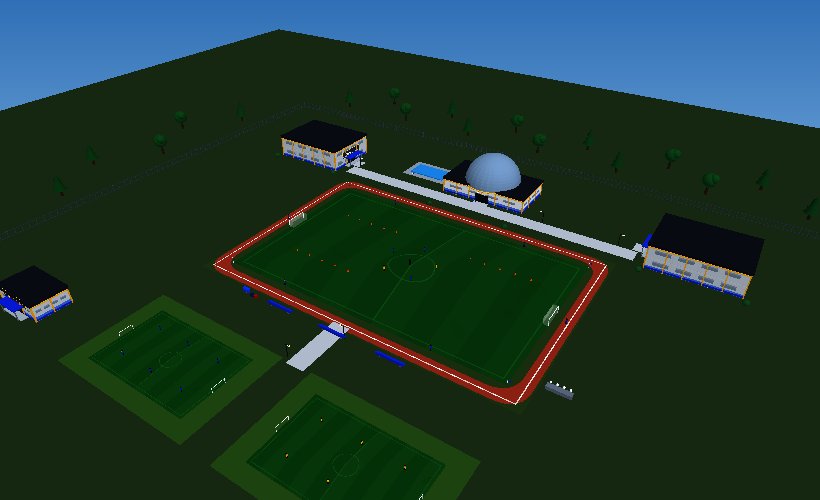
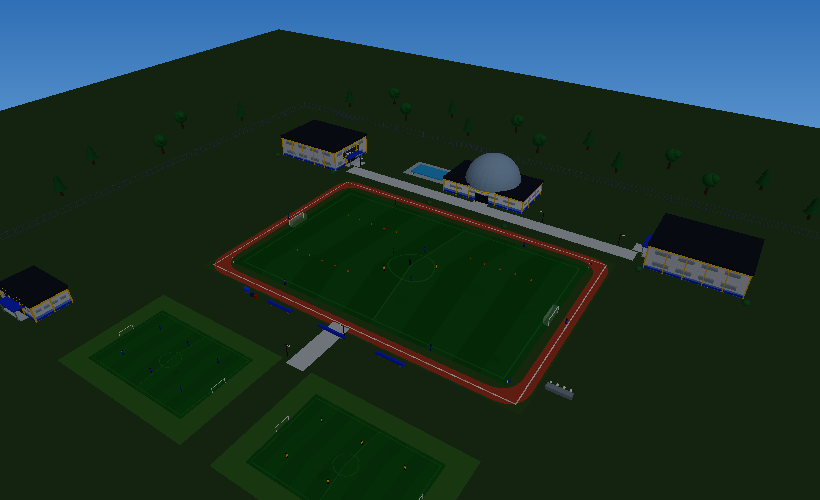
Stadyum vitrin kareleri: gece/gündüz sinematik açı + gece projektör ayarı
- Gece projektör şiddeti 56000 → 78000 (uygulama ve önizleme aynı)
- Gece maçlarda çim, projektör altında hafif kendinden aydınlık (gerçekçi)
- Önizleme motoruna yumuşak ton eğrisi: parlak yüzeyler bembeyaz patlamıyor
- docs/preview-stadyum-kahraman-gece.png, -kahraman-gunduz.png ve
  docs/preview-stadyum-vitrin.png (ikisini birden gösteren vitrin)

diff --git a/tools/render-3d-preview.tsx b/tools/render-3d-preview.tsx
@@ -315,6 +315,12 @@ function renderToBuffer(
     }
   });
 
+  // Yumuşak ton eğrisi (Reinhard benzeri) — projektör altındaki yüzeyler bembeyaz patlamaz
+  const tonemap = (v: number) => {
+    const n = v / 255;
+    return 255 * (n * (1 + n / 9)) / (1 + n);
+  };
+
   for (const t of tris) {
     let [x0, y0, x1, y1, x2, y2] = [t.x[0], t.y[0], t.x[1], t.y[1], t.x[2], t.y[2]];
     let [z0, z1, z2] = [t.z[0], t.z[1], t.z[2]];
@@ -376,7 +382,7 @@ function renderToBuffer(
           cg += t.em[1] * 0.6;
           cb += t.em[2] * 0.6;
         }
-        cr = Math.min(255, cr); cg = Math.min(255, cg); cb = Math.min(255, cb);
+        cr = tonemap(Math.min(400, cr)); cg = tonemap(Math.min(400, cg)); cb = tonemap(Math.min(400, cb));
         if (t.alpha < 1) {
           for (let c = 0; c < 3; c++) {
             const src = c === 0 ? cr : c === 1 ? cg : cb;
@@ -429,6 +435,9 @@ const stadiumPreviews: { name: string; design: StadiumDesign; capacity: number; 
   { name: 'preview-stadyum-gunduz.png', design: { ...defaultStadium().design, roof: 'canopy', flags: true }, capacity: 17000, night: false, dPhi: 0, dTheta: 0, zoom: 1 },
   { name: 'preview-stadyum-gece.png', design: { seatColor: '#dc2626', accentColor: '#facc15', roof: 'full', stands: 'double', pitchPattern: 'stripes', flags: true, logoOnPitch: false, floodlights: true }, capacity: 40000, night: true, dPhi: 0, dTheta: 0.25, zoom: 1.05, pointLights: true },
   // Tasarım seçenekleri galerisi: her kare farklı bir özelleştirme seçimini gösterir
+  // Vitrin kareleri: alçak sinematik açı (gece projektörler açık)
+  { name: 'preview-stadyum-kahraman-gece.png', design: { seatColor: '#dc2626', accentColor: '#facc15', roof: 'full', stands: 'double', pitchPattern: 'stripes', flags: true, logoOnPitch: true, floodlights: true }, capacity: 40000, night: true, dPhi: 0.04, dTheta: -0.83, zoom: 0.8, pointLights: true },
+  { name: 'preview-stadyum-kahraman-gunduz.png', design: { seatColor: '#1d4ed8', accentColor: '#f8fafc', roof: 'canopy', stands: 'stepped', pitchPattern: 'stripes', flags: true, logoOnPitch: true, floodlights: true }, capacity: 26000, night: false, dPhi: 0.04, dTheta: -0.83, zoom: 0.82 },
   { name: 'preview-stadyum-tasarim-cati-yok.png', design: { seatColor: '#2563eb', accentColor: '#f8fafc', roof: 'none', stands: 'classic', pitchPattern: 'stripes', flags: false, logoOnPitch: false, floodlights: false }, capacity: 9000, night: false, dPhi: 0.06, dTheta: -0.18, zoom: 1.02 },
   { name: 'preview-stadyum-tasarim-canopy.png', design: { seatColor: '#16a34a', accentColor: '#facc15', roof: 'canopy', stands: 'stepped', pitchPattern: 'plain', flags: true, logoOnPitch: true, floodlights: true }, capacity: 17000, night: false, dPhi: 0.06, dTheta: -0.18, zoom: 1.02 },
   { name: 'preview-stadyum-tasarim-cam-cati.png', design: { seatColor: '#7c3aed', accentColor: '#e5e7eb', roof: 'glass', stands: 'double', pitchPattern: 'rings', flags: true, logoOnPitch: true, floodlights: true }, capacity: 26000, night: false, dPhi: 0.06, dTheta: -0.18, zoom: 1.02 },
@@ -446,7 +455,8 @@ stadiumPreviews.forEach(p => {
   const depth = (p.design.stands === 'stepped' ? 1.9 : 1.55) * rows;
   const halfZ = 68 / 2 + 8 + depth + 4;
   const buffer = renderToBuffer(bundle.group, {
-    radius: baseRadius * p.zoom, phi: 0.98 + p.dPhi, theta: 0.85 + p.dTheta, targetY: Math.max(6, rows * 1.1), fov: 46,
+    radius: baseRadius * p.zoom, phi: 0.98 + p.dPhi, theta: 0.85 + p.dTheta,
+    targetY: Math.max(6, rows * 1.1) + (p.name.includes('kahraman') ? 2 : 0), fov: 46,
   }, {
     sky: p.night ? '#0b1026' : '#7ab0e0',
     night: p.night,
@@ -455,7 +465,7 @@ stadiumPreviews.forEach(p => {
       ? [
           ...(p.pointLights
             ? [[-1, -1], [1, -1], [-1, 1], [1, 1]].map(([lx, lz]) => ({
-                x: lx * spotX, y: spotY, z: lz * spotZ, intensity: 56000, distance: 300, color: 0xffe9a8,
+                x: lx * spotX, y: spotY, z: lz * spotZ, intensity: 78000, distance: 300, color: 0xffe9a8,
               }))
             : []),
           // Giriş meydanı lambaları (scene.ts ile aynı)

diff --git a/src/components/stadium/scene.ts b/src/components/stadium/scene.ts
@@ -440,8 +440,9 @@ export function buildStadiumGroup(design: StadiumDesign, opts: StadiumBuildOptio
     color: pitchTex ? 0xffffff : 0x37994a,
     roughness: opts.wet ? 0.52 : 0.95,
     metalness: opts.wet ? 0.08 : 0.0,
-    emissive: opts.wet ? new THREE.Color(0x1a3a25) : new THREE.Color(0x000000),
-    emissiveIntensity: opts.wet ? (opts.night ? 0.22 : 0.08) : 0,
+    // Gece projektör altında çim hafifçe kendi kendine aydınlanır (gerçekte de parlak görünür)
+    emissive: opts.wet ? new THREE.Color(0x1a3a25) : (opts.night && design.floodlights ? new THREE.Color(0x14351f) : new THREE.Color(0x000000)),
+    emissiveIntensity: opts.wet ? (opts.night ? 0.22 : 0.08) : (opts.night && design.floodlights ? 0.5 : 0),
   });
   if (pitchTex) pitchMat.map = pitchTex;
   const pitch = new THREE.Mesh(new THREE.PlaneGeometry(PITCH_L, PITCH_W), pitchMat);
@@ -1173,7 +1174,7 @@ export function buildStadiumGroup(design: StadiumDesign, opts: StadiumBuildOptio
     const lightTargets: [number, number][] = [[-1, -1], [1, -1], [-1, 1], [1, 1]];
     lightTargets.forEach(([lx, lz]) => {
       // Önceki 180000 değeri sahayı bembeyaz yapıyordu — düşür, mesafeyi kaptır
-      const spot = new THREE.PointLight(0xffe9a8, 56000, 300, 1.85);
+      const spot = new THREE.PointLight(0xffe9a8, 78000, 300, 1.85);
       spot.position.set(lx * (PITCH_L / 2 + MARGIN + depth * 0.7), height + 16, lz * (PITCH_W / 2 + MARGIN + depth * 0.7));
       group.add(spot);
     });
